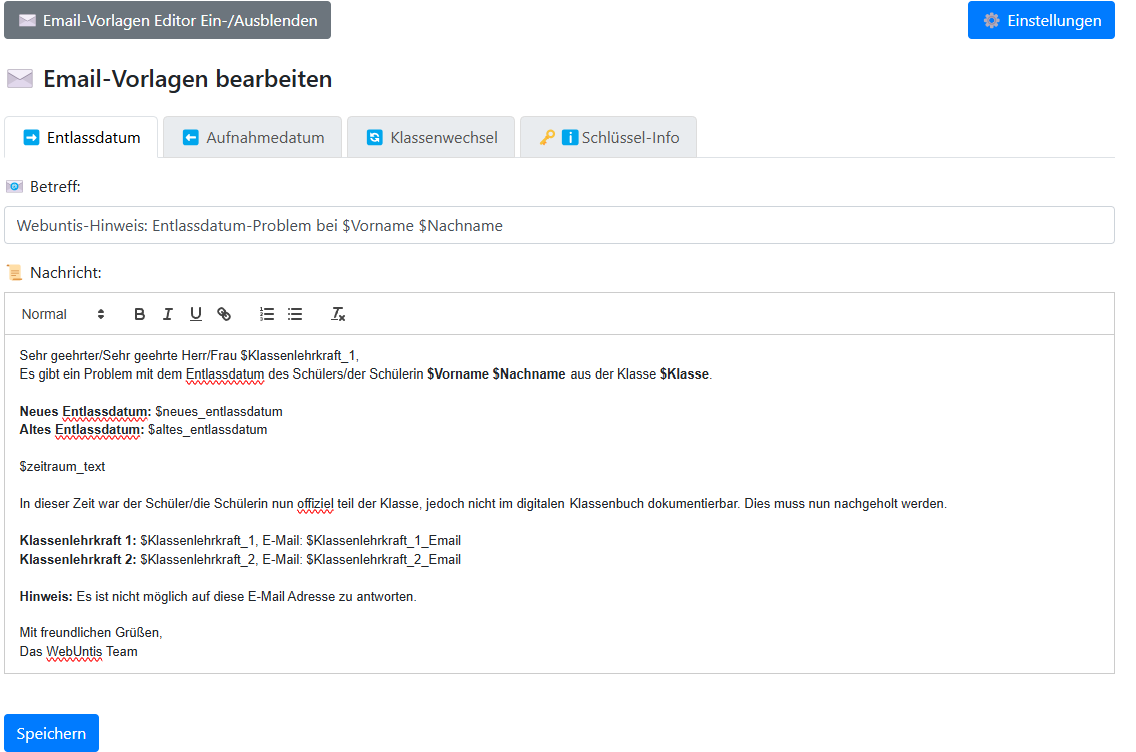
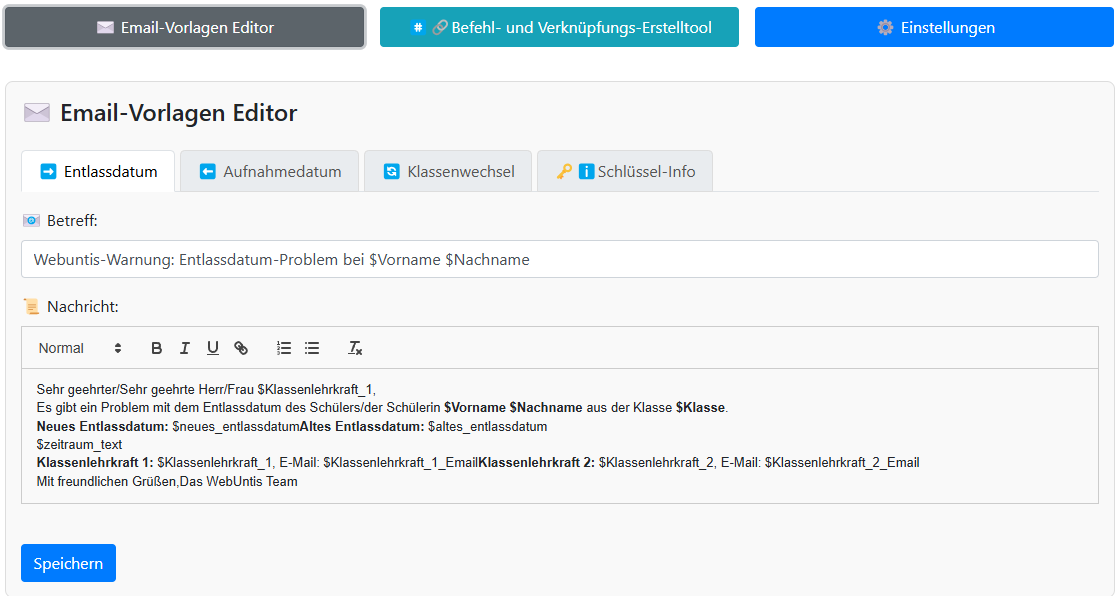
Optische Verbesserungen

diff --git a/Schild_WebUntis_Tool/templates/index - Copy.html b/Schild_WebUntis_Tool/templates/index - Copy.html
@@ -30,14 +30,6 @@
             background-color: #f9f9f9;
             border-radius: 8px;
         }
-
-        #shortcutCreator {
-            margin-top: 20px;
-            border: 1px solid #ddd;
-            padding: 15px;
-            background-color: #f9f9f9;
-            border-radius: 8px;
-        }
         .nav-tabs {
             margin-bottom: 15px;
         }
@@ -239,13 +231,14 @@
 
     <div class="container mt-5">
         <div class="d-flex justify-content-between align-items-center mb-3" style="height: 60px;">
-            <button id="toggleEditor" class="btn btn-secondary w-100 mr-2">✉ Email-Vorlagen Editor</button>
-            <button id="toggleShortcutCreator" class="btn btn-info w-100 mx-2">#⃣🔗Befehl- und Verknüpfungs-Erstelltool</button>
+            <button id="toggleEditor" class="btn btn-secondary w-100 mr-2">✉ Email-Vorlagen Editor Ein-/Ausblenden</button>
+            <button id="toggleShortcutCreator" class="btn btn-info w-100 mx-2">#⃣🔗Befehl-/Verknüpfungs-Ersteller Einblenden</button>
             <button id="toggle-settings" class="btn btn-primary w-100 ml-2">⚙ Einstellungen</button>
         </div>
 
+
         <div id="settingsPanel" class="mt-4" style="display: none;">
-            <h4 class="mb-4">⚙ Einstellungen</h4>
+            <h4 class="mb-4">Einstellungen bearbeiten</h4>
             <ul class="nav nav-tabs" id="settingsTabs" role="tablist">
                 <li class="nav-item">
                     <a class="nav-link active" id="directories-tab" data-toggle="tab" href="#directories" role="tab" aria-controls="directories" aria-selected="true">📁 Verzeichnisse</a>
@@ -432,7 +425,7 @@
         </div>
 
         <div id="emailEditor" class="mt-4" style="display: none;">
-            <h4 class="mb-4">✉ Email-Vorlagen Editor</h4>
+            <h4 class="mb-4">✉ Email-Vorlagen bearbeiten</h4>
             <ul class="nav nav-tabs" id="emailTabs" role="tablist">
                 <li class="nav-item">
                     <a class="nav-link active" id="entlass-tab" data-toggle="tab" href="#entlass" role="tab" aria-controls="entlass" aria-selected="true">➡ Entlassdatum</a>
@@ -572,46 +565,52 @@
             </div>
             <button id="saveEmailTemplates" class="btn btn-primary mt-4">Speichern</button>
         </div>
-        <div id="shortcutCreator" class="mt-4" style="display: none;">
-            <h4 class="mb-4">#⃣🔗 Befehl- und Verknüpfungs-Erstelltool </h4>
-            <div class="card-body">
-                <p class="text-muted">
-                    Mit diesem Tool können Sie Befehle erstellen, um das Programm direkt mit bestimmten Konfigurationsoptionen
-                    (Argumenten) auszuführen ohne diese im Browser auslösen zu müssen. <br />Außerdem können Sie eine Verknüpfung 
-                    erstellen, die bequem vom Desktop oder einem beliebigen anderen Ort aus aufgerufen werden kann. <br />
-                    Fügen Sie gewünschte Argumente hinzu, und generieren Sie entweder einen Befehl zum Ausführen in der Windows-Eingabeaufforderung (CMD) oder eine Verknüpfung.
-                </p>
-                <form id="shortcutForm">
-                    <div class="form-group">
-                        <label for="exePath">Pfad der Ausführungs-Datei:</label>
-                        <div class="input-group">
-                            <input type="text" class="form-control" id="exePath" value="Schild-WebUntis-Tool.exe" placeholder="Pfad zur ausführbaren Datei">
-                        </div>
-                        <small id="fileValidationMessage" class="form-text text-danger"></small>
-                    </div>
-                    <div class="form-group">
-                        <label for="availableArgs">Verfügbare Argumente:</label>
-                        <div class="input-group">
-                            <select id="availableArgs" class="form-control">
-                                <!-- Arguments will be populated dynamically -->
-                            </select>
-                            <div class="input-group-append">
-                                <button type="button" class="btn btn-secondary" id="addArg">Argument hinzufügen</button>
+    </div>
+    <div class="container mt-5">
+        <div class="card">
+            <div id="shortcutCreator" class="card" style="display: none;">
+                <div class="card-header bg-secondary text-white">
+                    Befehl- und Verknüpfungs-Erstelltool
+                </div>
+                <div class="card-body">
+                    <p class="text-muted">
+                        Mit diesem Tool können Sie Befehle erstellen, um das Programm direkt mit bestimmten Konfigurationsoptionen
+                        (Argumenten) auszuführen ohne diese etwa im Browser auslösen zu müssen. Außerdem können Sie eine Verknüpfung 
+                        erstellen, die bequem vom Desktop oder einem beliebigen anderen Ort aus aufgerufen werden kann. 
+                        Fügen Sie gewünschte Argumente hinzu, und generieren Sie entweder einen Befehl zum Ausführen in der Windows-Eingabeaufforderung (CMD) oder eine Verknüpfung.
+                    </p>
+                    <form id="shortcutForm">
+                        <div class="form-group">
+                            <label for="exePath">Pfad der Ausführungs-Datei:</label>
+                            <div class="input-group">
+                                <input type="text" class="form-control" id="exePath" value="Schild-WebUntis-Tool.exe" placeholder="Pfad zur ausführbaren Datei">
                             </div>
+                            <small id="fileValidationMessage" class="form-text text-danger"></small>
                         </div>
-                        <small id="argDescription" class="form-text text-muted">Select an argument to see its description.</small>
-                    </div>
-                    <div class="form-group">
-                        <label for="args">Verwendete Argumente:</label>
-                        <input type="text" class="form-control" id="args" placeholder="Argumente hier hinzufügen">
-                    </div>
-                    <div class="form-group">
-                        <label for="outputCommand">Generierter Befehl:</label>
-                        <input type="text" class="form-control" id="outputCommand" readonly>
-                    </div>
-                    <button type="button" class="btn btn-primary" id="generateCommand">Befehl Generieren (für CMD)</button>
-                    <button type="button" class="btn btn-success" id="createShortcut">Verknüpfung Erstellen (Desktop)</button>
-                </form>
+                        <div class="form-group">
+                            <label for="availableArgs">Verfügbare Argumente:</label>
+                            <div class="input-group">
+                                <select id="availableArgs" class="form-control">
+                                    <!-- Arguments will be populated dynamically -->
+                                </select>
+                                <div class="input-group-append">
+                                    <button type="button" class="btn btn-secondary" id="addArg">Argument hinzufügen</button>
+                                </div>
+                            </div>
+                            <small id="argDescription" class="form-text text-muted">Select an argument to see its description.</small>
+                        </div>
+                        <div class="form-group">
+                            <label for="args">Verwendete Argumente:</label>
+                            <input type="text" class="form-control" id="args" placeholder="Argumente hier hinzufügen">
+                        </div>
+                        <div class="form-group">
+                            <label for="outputCommand">Generierter Befehl:</label>
+                            <input type="text" class="form-control" id="outputCommand" readonly>
+                        </div>
+                        <button type="button" class="btn btn-primary" id="generateCommand">Befehl Generieren (für CMD)</button>
+                        <button type="button" class="btn btn-success" id="createShortcut">Verknüpfung Erstellen (Desktop)</button>
+                    </form>
+                </div>
             </div>
         </div>
     </div>
@@ -622,51 +621,6 @@
     <script src="https://stackpath.bootstrapcdn.com/bootstrap/4.5.2/js/bootstrap.min.js"></script>
 
     <script>
-        document.addEventListener("DOMContentLoaded", function () {
-            const panels = {
-                settingsPanel: document.getElementById("settingsPanel"),
-                emailEditor: document.getElementById("emailEditor"),
-                shortcutCreator: document.getElementById("shortcutCreator"),
-            };
-
-            const toggleButtons = {
-                toggleSettingsButton: document.getElementById("toggle-settings"),
-                toggleEditorButton: document.getElementById("toggleEditor"),
-                toggleShortcutButton: document.getElementById("toggleShortcutCreator"),
-            };
-
-            function togglePanel(panelKey) {
-                Object.entries(panels).forEach(([key, panel]) => {
-                    if (key === panelKey) {
-                        // Zeige das ausgewählte Panel
-                        panel.style.display = panel.style.display === "none" || panel.style.display === "" ? "block" : "none";
-                    } else {
-                        // Blende alle anderen Panels aus
-                        panel.style.display = "none";
-                    }
-                });
-            }
-
-            // Event listener for Settings Panel
-            toggleButtons.toggleSettingsButton.addEventListener("click", function () {
-                togglePanel("settingsPanel");
-            });
-
-            // Event listener for Email Editor
-            toggleButtons.toggleEditorButton.addEventListener("click", function () {
-                togglePanel("emailEditor");
-            });
-
-            // Event listener for Shortcut Creator
-            toggleButtons.toggleShortcutButton.addEventListener("click", function () {
-                togglePanel("shortcutCreator");
-            });
-
-            // Ensure all panels are initially hidden
-            Object.values(panels).forEach((panel) => (panel.style.display = "none"));
-        });
-
-
         document.addEventListener("DOMContentLoaded", function () {
             // Initialisiere WYSIWYG-Editoren
             const editorOptions = { theme: 'snow' };
@@ -722,6 +676,21 @@
                     });
             });
 
+            // Ein-/Ausblenden des E-Mail-Editors
+            const toggleEditorButton = document.getElementById("toggleEditor");
+            const emailEditor = document.getElementById("emailEditor");
+
+            toggleEditorButton.addEventListener("click", function () {
+                if (emailEditor.style.display === "none" || emailEditor.style.display === "") {
+                    emailEditor.style.display = "block";
+                    toggleEditorButton.textContent = "✉ Email-Editor Ausblenden";
+                } else {
+                    emailEditor.style.display = "none";
+                    toggleEditorButton.textContent = "✉ Email-Editor Einblenden";
+                }
+            });
+
+
             // Tabs für den E-Mail-Editor initialisieren
             const emailTabs = document.querySelectorAll('#emailTabs .nav-link');
             emailTabs.forEach(tab => {
@@ -743,6 +712,23 @@
             });
         });
 
+
+
+        // Funktion zum Ein-/Ausblenden des Settings-Panels
+        document.addEventListener("DOMContentLoaded", function () {
+            const settingsPanel = document.getElementById("settingsPanel");
+            const toggleSettingsButton = document.getElementById("toggle-settings");
+
+            // Ein- und Ausblenden des Settings Panels
+            toggleSettingsButton.addEventListener("click", function () {
+                if (settingsPanel.style.display === "none" || settingsPanel.style.display === "") {
+                    settingsPanel.style.display = "block";
+                } else {
+                    settingsPanel.style.display = "none";
+                }
+            });
+            // Der bestehende Code für Tabs, Laden und Speichern von Einstellungen bleibt hier unverändert.
+        });
         document.addEventListener("DOMContentLoaded", function () {
             const settingsPanel = document.getElementById("settingsPanel");
             const saveSettingsButton = document.getElementById("saveSettings");
@@ -992,6 +978,21 @@
             const hiddenFileInput = document.createElement("input");
             const validationMessage = document.getElementById("fileValidationMessage");
             let argumentCache = [];
+
+            // Ein-/Ausblenden des Shortcut-Erstellers
+            const toggleShortcutButton = document.getElementById("toggleShortcutCreator");
+            const shortcutCreatorPanel = document.getElementById("shortcutCreator");
+
+            toggleShortcutButton.addEventListener("click", function () {
+                if (shortcutCreatorPanel.style.display === "none" || shortcutCreatorPanel.style.display === "") {
+                    shortcutCreatorPanel.style.display = "block";
+                    toggleShortcutButton.textContent = "#⃣🔗 Befehl-/Verknüpfungs-Ersteller Ausblenden";
+                } else {
+                    shortcutCreatorPanel.style.display = "none";
+                    toggleShortcutButton.textContent = "#⃣🔗 Befehl-/Verknüpfungs-Ersteller Einblenden";
+                }
+            });
+
 
             // Fetch the executable path from the server
             fetch('/get-executable-path')

diff --git a/Schild_WebUntis_Tool/__init__.py b/Schild_WebUntis_Tool/__init__.py
@@ -569,12 +569,12 @@ def get_arguments():
     arguments = [
         {"name": "--process", "description": "Führt den Hauptprozess aus (Verarbeitung des Schild-Exports, Erstellungen von Warnungen, Erstellung der Log-Dateien)."},
         {"name": "--generate-emails --send-emails", "description": "Generiert und sendet die Warn-Emails auf Grundlage der gespeicherten Einstellungen."},
-        {"name": "--send-admin-warnings", "description": "Sendet Admin-Warnungen per Email an die hinterlegte Admin Email-Adresse."},
+        {"name": "--send-admin-warnings", "description": "Sendet Admin-Warnungen per Email an die hinterlegte Admin Email-Adresse, wenn im SchildExport Klassen oder Klassenlehrkräfte vorkommen, die in den Klassen- oder Lehrkraftdaten fehlen."},
         {"name": "--no-web", "description": "Verhindert das Öffnen des Web-Interfaces."},
-        {"name": "--skip-admin-warnings", "description": "Überspringt die Erstellung von Admin-Warnungen."},
+        {"name": "--send-log-email", "description": "Sendet eine tabellarische Übersicht (html) und die den Excel-Änderungslog (im Anhang) für einen definierten Zeitraum an die hinterlegte Admin Email-Adresse."},
+        {"name": "--skip-admin-warnings", "description": "Überspringt die Erstellung von Admin-Warnungen. (Darf nicht mit --send admin-warnings kombiniert werden.)"},
         {"name": "--no-log", "description": "Verhindert die Erstellung der .log Logdateien."},
-        {"name": "--no-xlsx", "description": "Verhindert die Erstellung der Excel Logdateien."},
-        {"name": "--send-log-email", "description": "Sendet eine tabellarische Übersicht (html) und die den Excel-Änderungslog (im Anhang) für einen definierten Zeitraum an die hinterlegte Admin Email-Adresse."}
+        {"name": "--no-xlsx", "description": "Verhindert die Erstellung der Excel Logdateien. (Darf nicht mit --send-log-email kombiniert werden.)"}
     ]
     return jsonify({"success": True, "arguments": arguments})
 @app.route('/get-executable-path', methods=['GET'])
